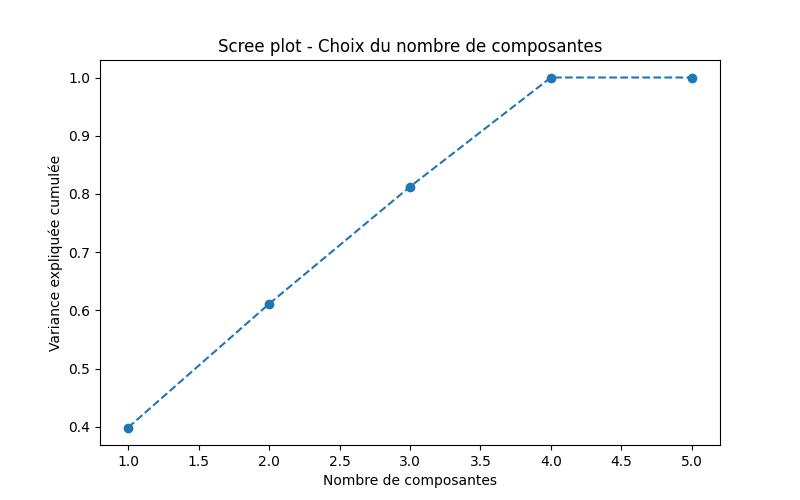
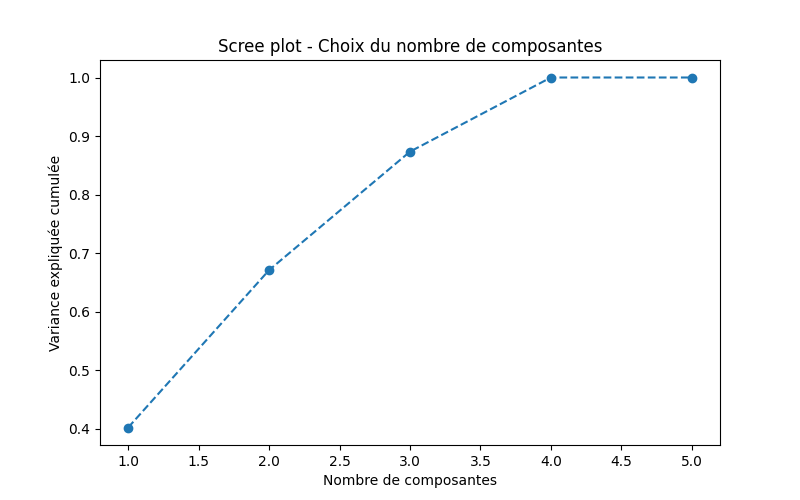
wip

diff --git a/explore-data.py b/explore-data.py
@@ -43,7 +43,7 @@ def do_pca(data, numerical_cols, name, nb_components):
     pca_result = pca.fit_transform(df_scaled)
 
     return pd.DataFrame(pca_result,
-                        columns=[f'PC{comp}' for comp in range(1, nb_components)]), pca, pca_result, df_scaled
+                        columns=[f'PC{comp + 1}' for comp in range(nb_components)]), pca, pca_result, df_scaled
 
 
 def pca_2_comp(data, numerical_cols, name):
@@ -74,6 +74,12 @@ def pca_2_comp(data, numerical_cols, name):
 if __name__ == '__main__':
     demissionaires = pd.read_csv('donnees_banque/demissionaires.csv')
     societaires = pd.read_csv('donnees_banque/societaires.csv')
+
+    demissionaires = demissionaires[demissionaires['ID'] != 11468]
+    demissionaires = demissionaires[demissionaires['ID'] != 100]
+    demissionaires = demissionaires[demissionaires['ID'] != 6986]
+    demissionaires = demissionaires[demissionaires['ID'] != 9530]
+    demissionaires = demissionaires[demissionaires['ID'] != 10131]
 
     dem_columns = list(demissionaires.columns)
     soc_columns = list(societaires.columns)
@@ -127,6 +133,11 @@ if __name__ == '__main__':
     hist_per_col(societaires, 'NBENF', 'soc-')
 
     numerical_dem_cols = ['MTREV', 'NBENF', 'AGEAD', 'AGEDEM', 'ADH']
-    pca(demissionaires, numerical_dem_cols, 'dem')
+    pca_2_comp(demissionaires, numerical_dem_cols, 'dem')
 
     print_sep()
+
+    df_pca, pca, pca_result, df_scaled = do_pca(demissionaires, numerical_dem_cols, 'dem', 4)
+
+    sns.pairplot(df_pca)
+    plt.show()

diff --git a/main.py b/main.py
@@ -3,12 +3,13 @@ import pandas as pd
 from nettoyage import nettoie_dem, nettoie_soc
 
 if __name__ == '__main__':
-    demissionaires =  pd.read_csv('donnees_banque/demissionaires.csv').to_dict(orient='records')
-    societaires =  pd.read_csv('donnees_banque/societaires.csv').to_dict(orient='records')
+    demissionaires =  pd.read_csv('donnees_banque/demissionaires.csv')
+    societaires =  pd.read_csv('donnees_banque/societaires.csv')
 
-    demissionaires = [nettoie_dem(dem) for dem in demissionaires]
-    societaires = [nettoie_soc(soc) for soc in societaires]
+    # TODO: clear Data
+
+
+    demissionaires = [nettoie_dem(dem) for dem in demissionaires.to_dict(orient='records')]
+    societaires = [nettoie_soc(soc) for soc in societaires.to_dict(orient='records')]
 
     all_societaires = societaires + [dem.to_societaire()  for dem in demissionaires]
-
-    print(all_societaires[:10])
